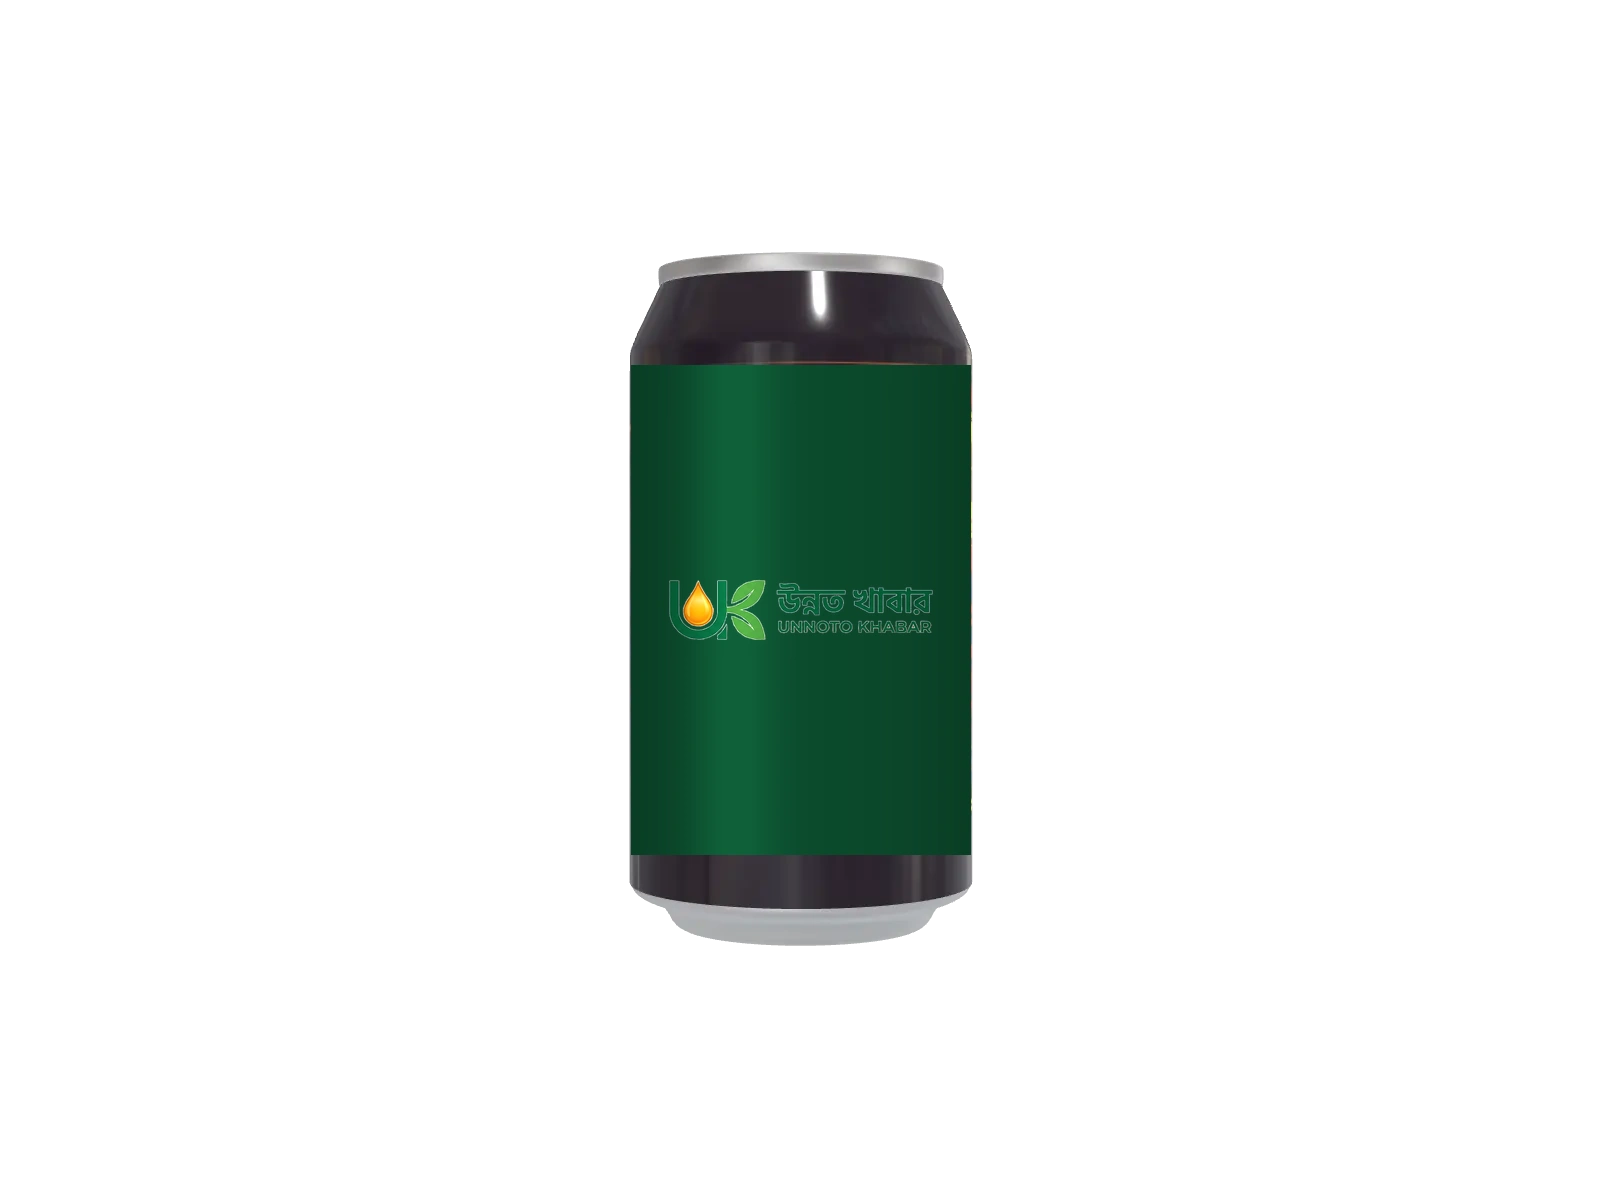
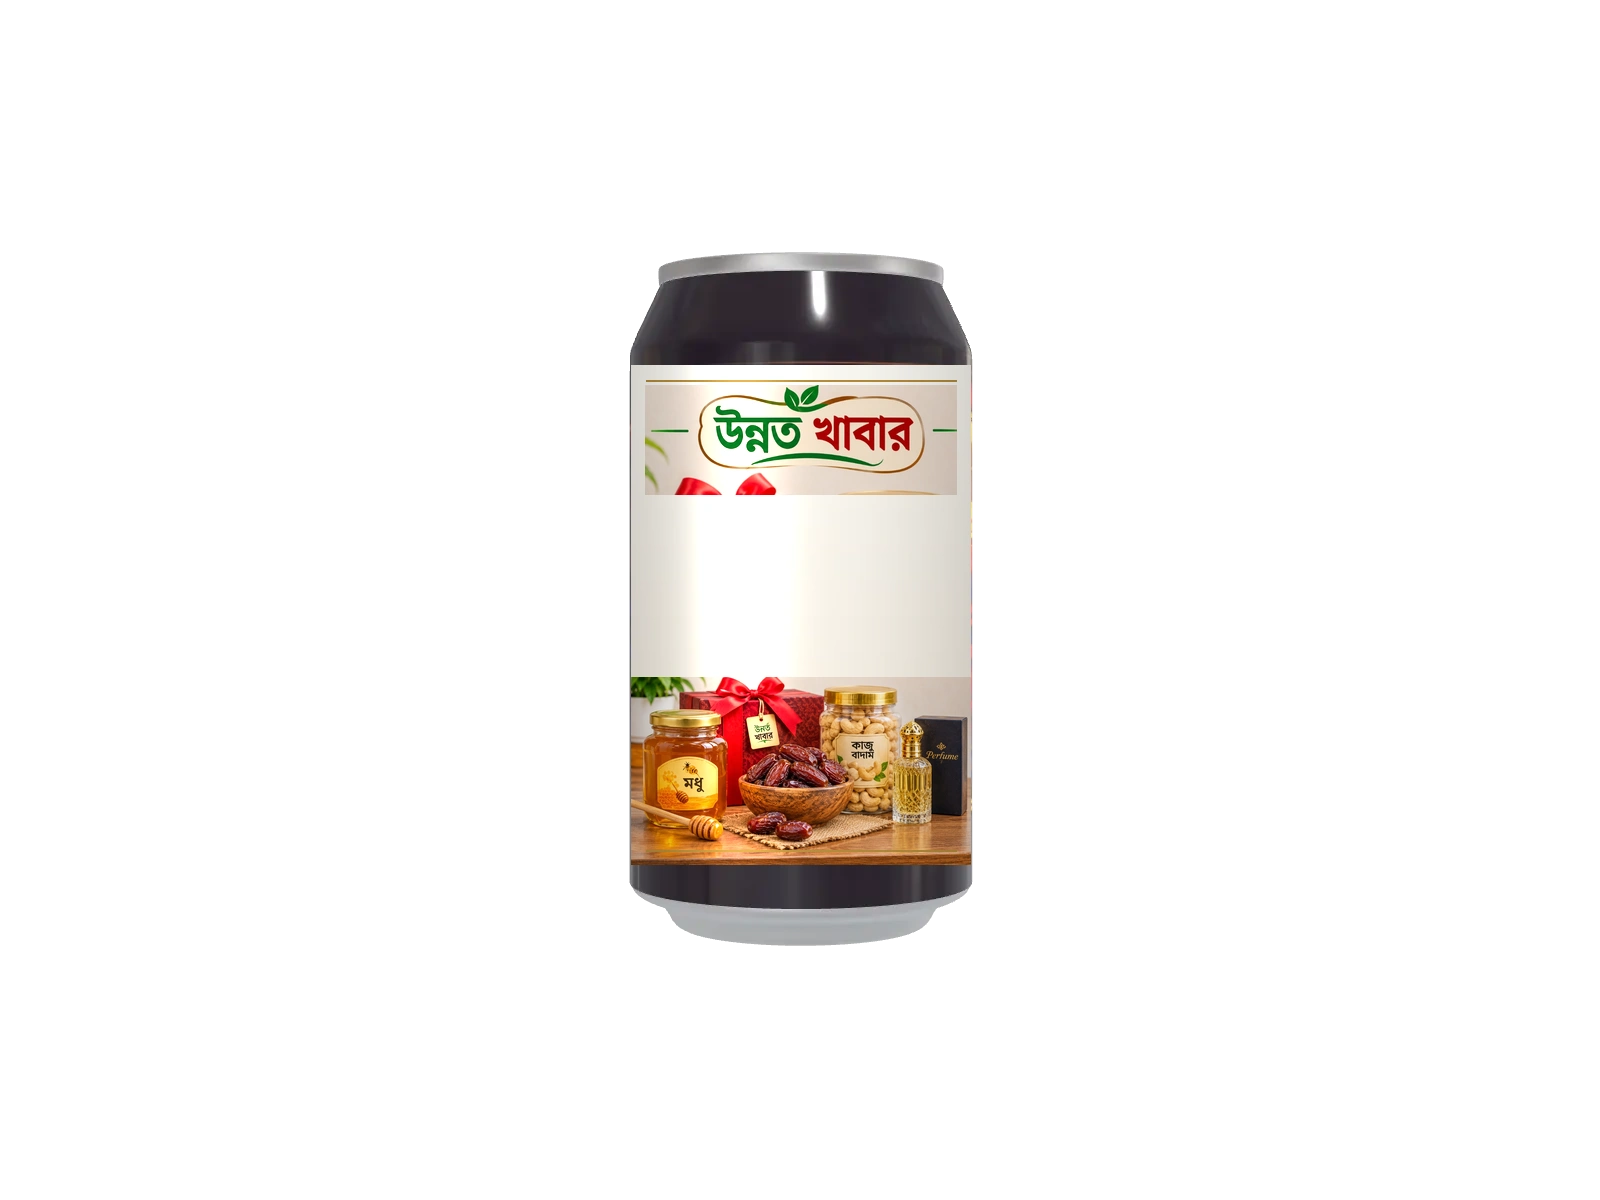
Set 1st hero product photo into 2nd can position and detail showcase

Changed region(s): [[0.375, 0.2775, 0.625, 0.74]]

diff --git a/src/utils/projectsData.js b/src/utils/projectsData.js
@@ -33,8 +33,9 @@ export const projects = [
     title: "Unnoto Khabar",
     can: "images/projects/UnnotoKhabar/UnnotoKhabarCan.webp",
     images: [
-      { src: "images/projects/UnnotoKhabar/1.webp", alt: "Unnoto Khabar Honey Banner" },
-      { src: "images/projects/UnnotoKhabar/2.webp", alt: "Unnoto Khabar Dates Banner" },
+      { src: "images/projects/UnnotoKhabar/hero_products.jpg", alt: "Unnoto Khabar Premium Organic Showcase" },
+      { src: "images/projects/UnnotoKhabar/1.webp", alt: "Unnoto Khabar Honey Storefront" },
+      { src: "images/projects/UnnotoKhabar/2.webp", alt: "Unnoto Khabar Dates Collection" },
       { src: "images/projects/UnnotoKhabar/3.webp", alt: "Natural Raw Honey Product" },
       { src: "images/projects/UnnotoKhabar/4.webp", alt: "Honey Nuts Premium Mix" },
     ],
